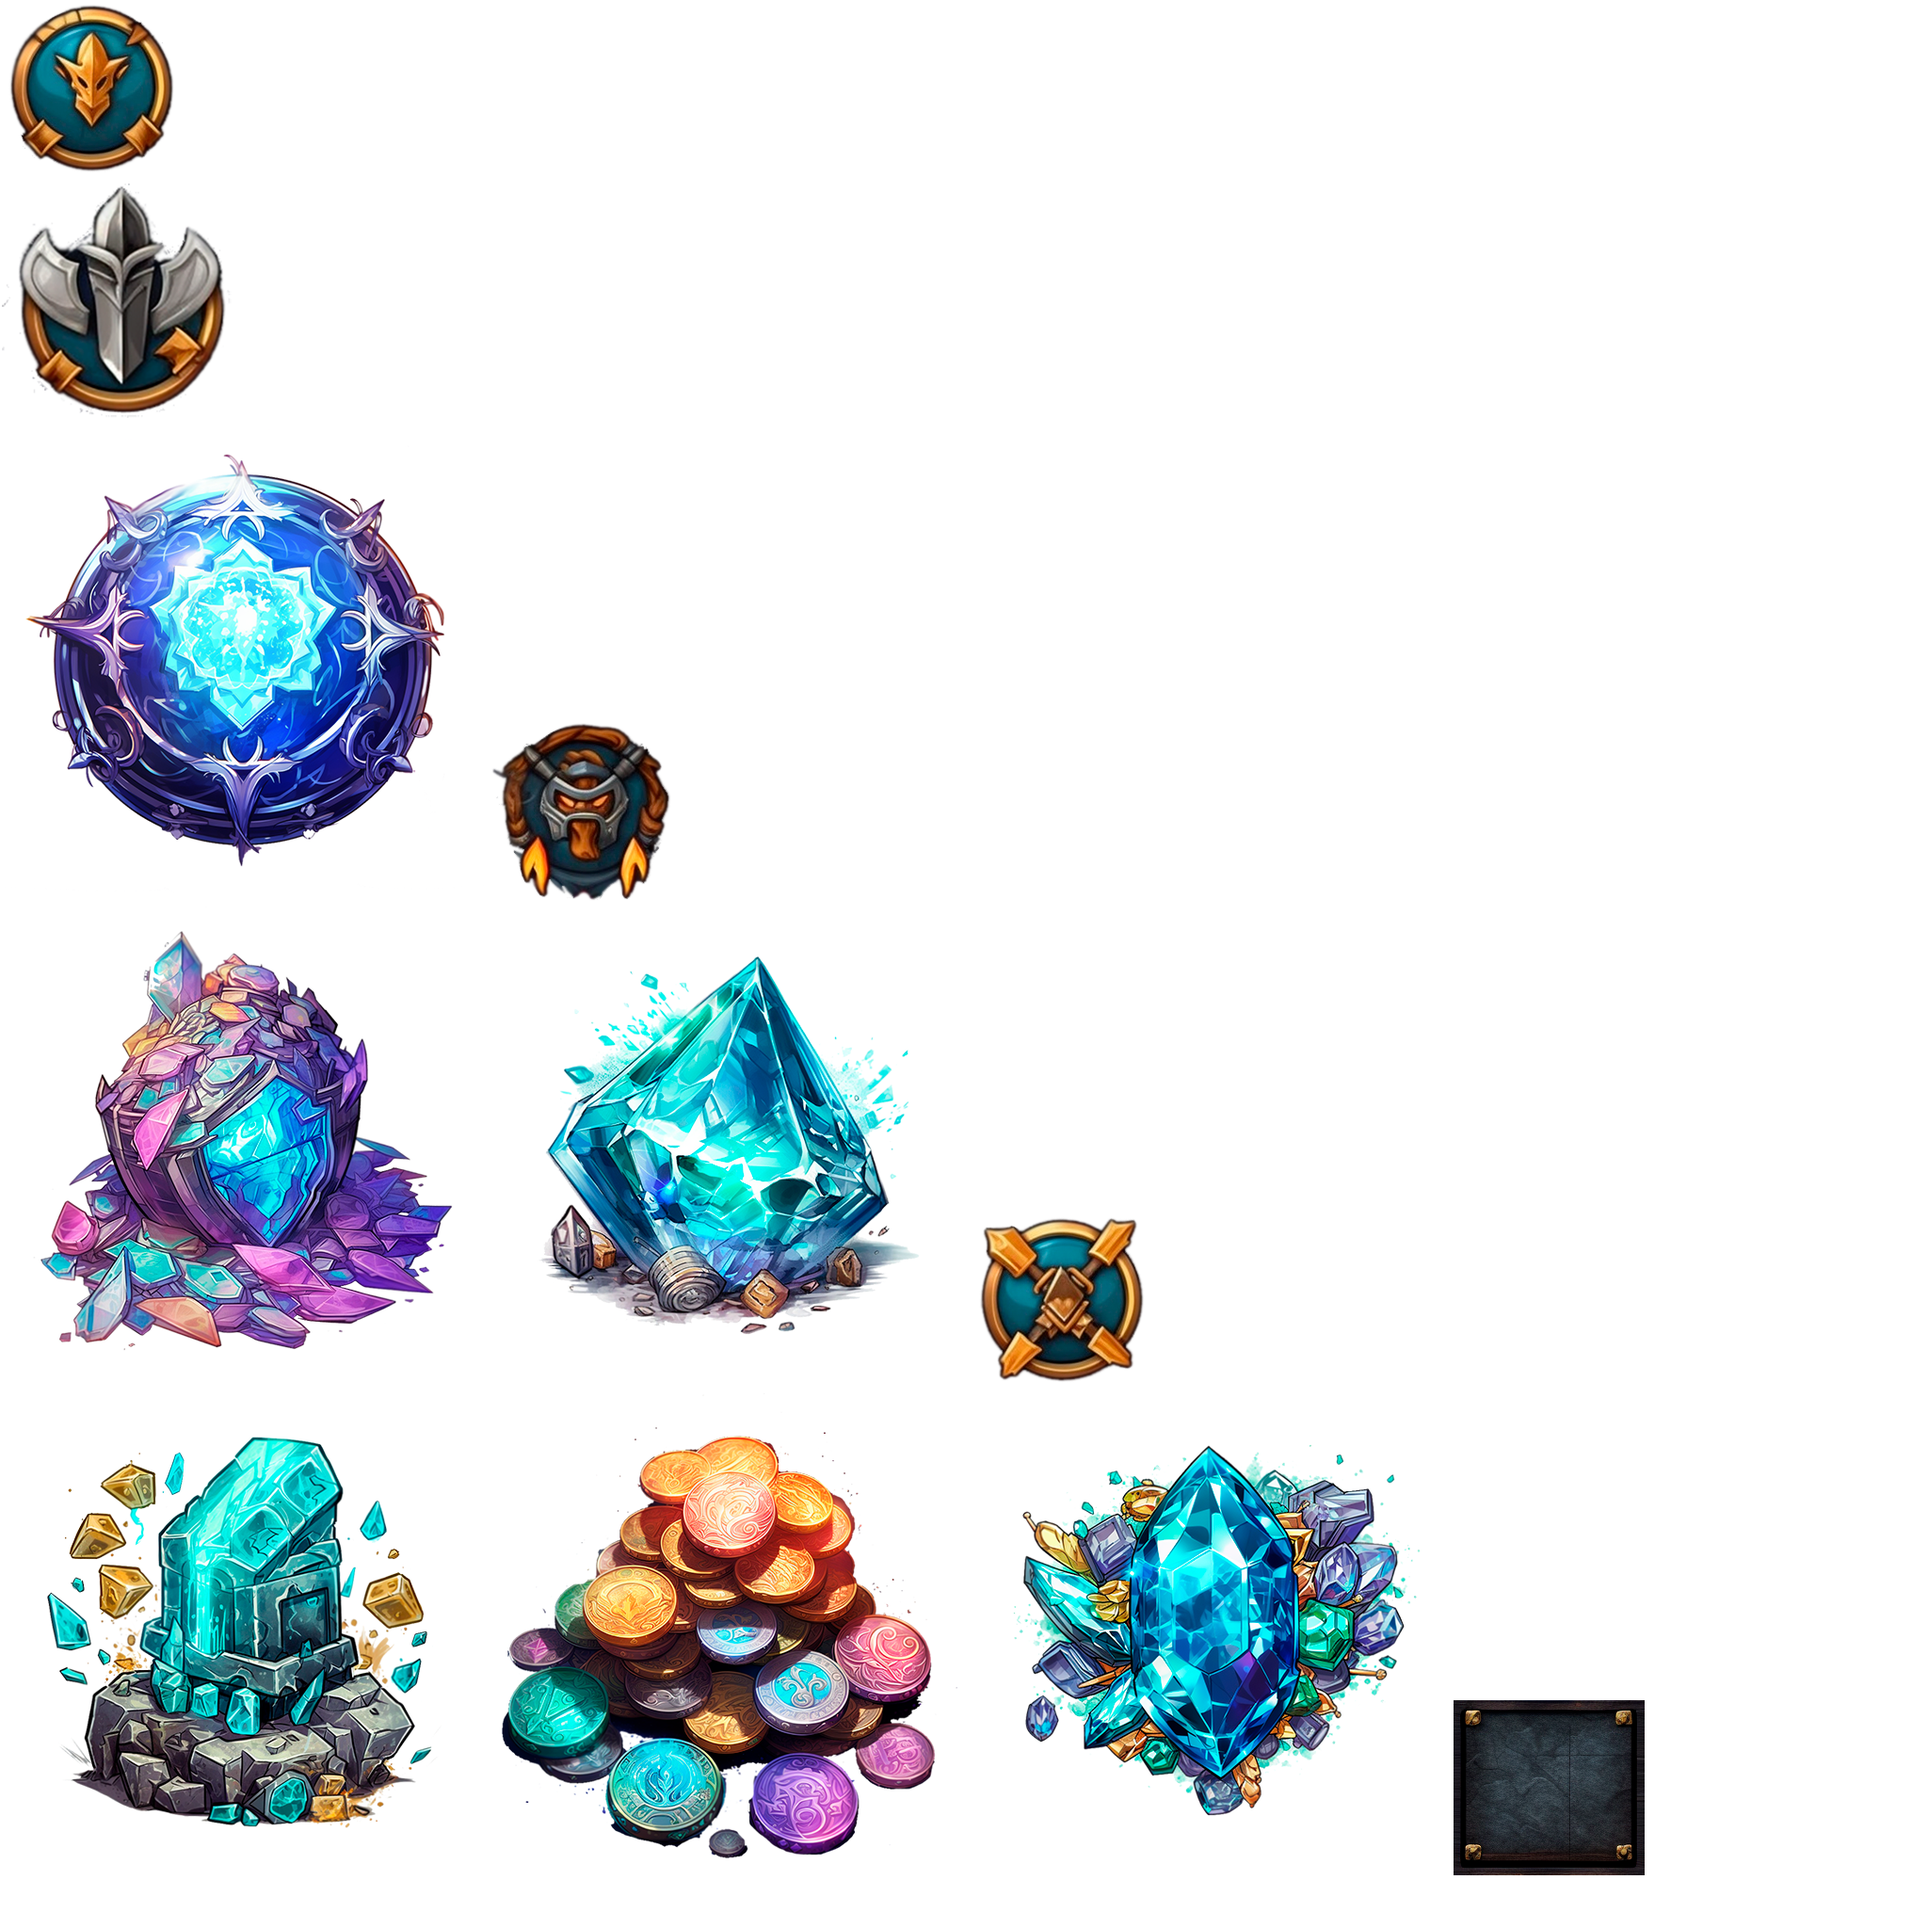
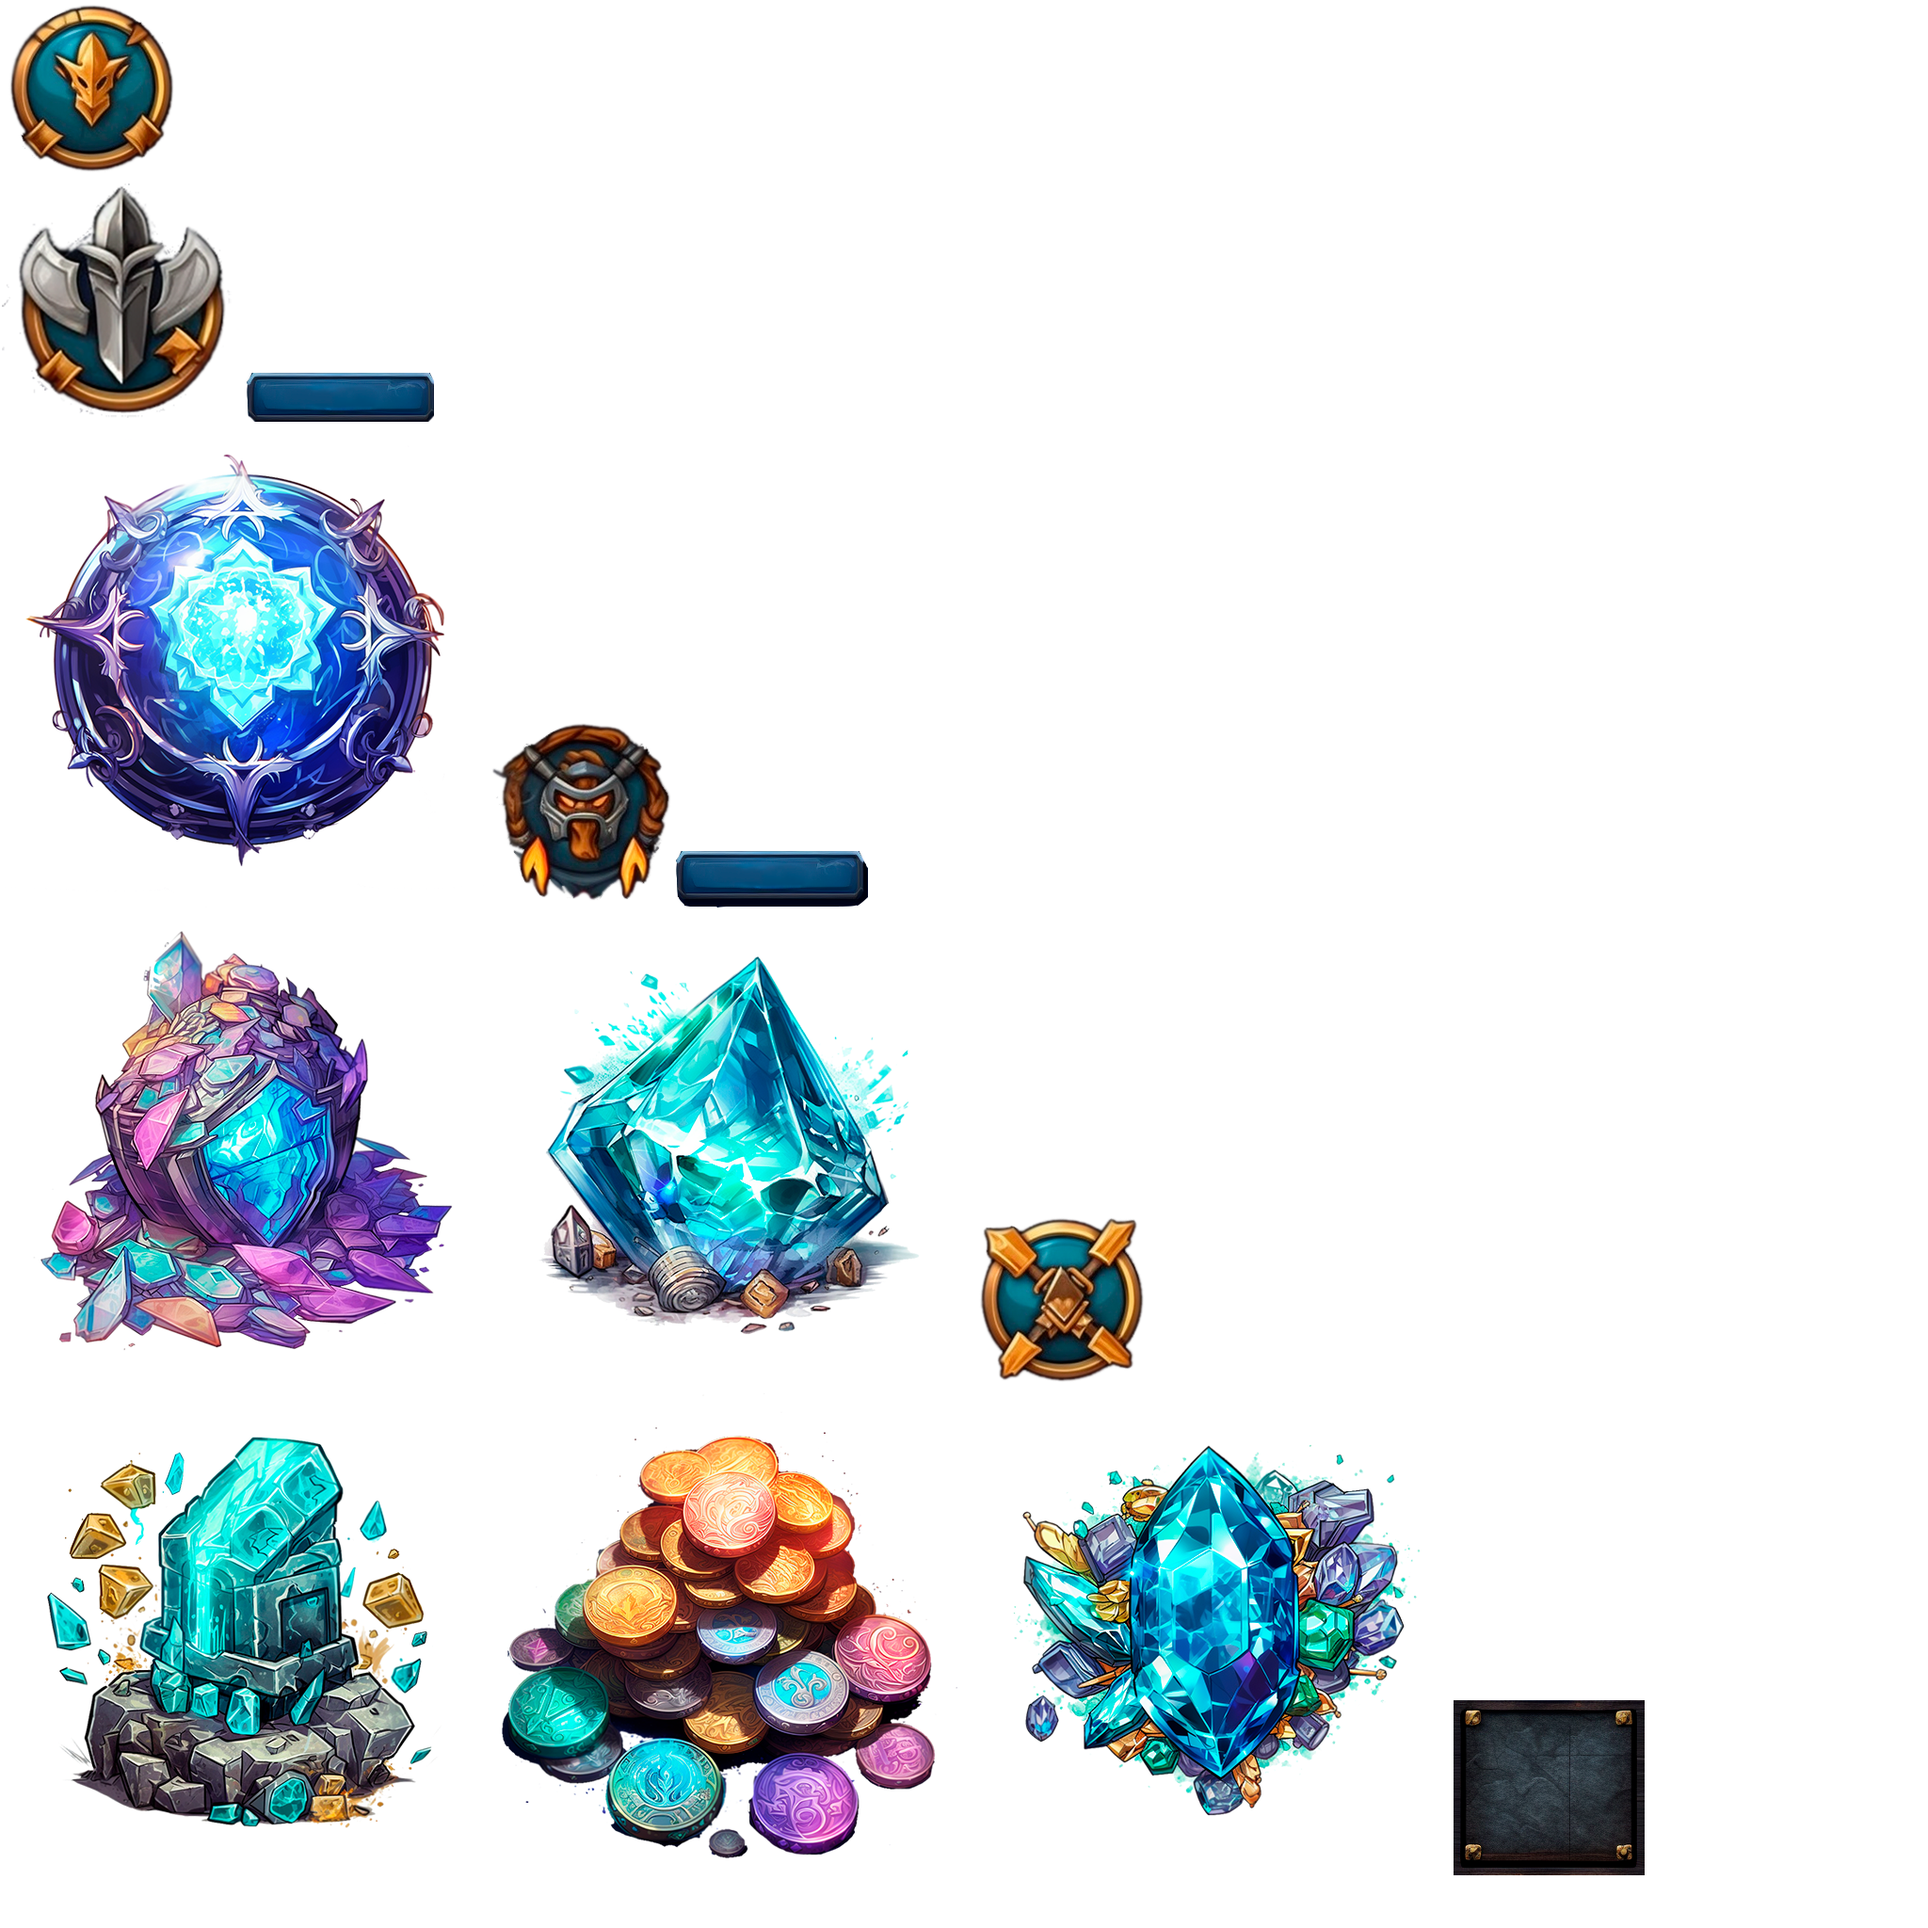
stable stuff (no skins)

Changed region(s): [[0.3438, 0.4375, 0.4688, 0.4688], [0.125, 0.1875, 0.25, 0.2188]]

diff --git a/swipe-client/core/src/main/java/com/pl00t/swipe_client/ux/IconedButton.kt b/swipe-client/core/src/main/java/com/pl00t/swipe_client/ux/IconedButton.kt
@@ -1,11 +1,9 @@
-package com.pl00t.swipe_client.screen.ux
+package com.pl00t.swipe_client.ux
 
-import com.badlogic.gdx.Graphics.DisplayMode
 import com.badlogic.gdx.graphics.g2d.TextureAtlas
 import com.badlogic.gdx.scenes.scene2d.Group
 import com.badlogic.gdx.scenes.scene2d.ui.Image
 import com.badlogic.gdx.utils.Align
-import com.pl00t.swipe_client.ux.Fonts
 
 class IconedButton(
     val w: Float,
@@ -17,9 +15,10 @@ class IconedButton(
     val align: Int = Align.right,
 ) : Group() {
 
-    val background = Image(coreTextureAtlas.findRegion("button_bg"))
+    val background = Image(coreTextureAtlas.createPatch("button_simple"))
     val iconImage = Image(textureAtlas.findRegion(icon))
     val captionText = Fonts.createWhiteCaption(text, h)
+    val padding = h * 0.1f
 
     init {
         background.apply {
@@ -32,10 +31,10 @@ class IconedButton(
             x = if (this@IconedButton.align == Align.left) 0f else w - h
         }
         captionText.apply {
-            width = w - h - h * 0.05f
+            width = w - h - padding
             height = h
             setAlignment(align)
-            x = if (align == Align.left) h * 1.05f else h * 0.05f
+            x = if (align == Align.left) h + padding else 0f
         }
         addActor(background)
         addActor(iconImage)

diff --git a/swipe-client/core/src/main/java/com/pl00t/swipe_client/screen/reward/RewardDialog.kt b/swipe-client/core/src/main/java/com/pl00t/swipe_client/screen/reward/RewardDialog.kt
@@ -6,7 +6,7 @@ import com.badlogic.gdx.scenes.scene2d.actions.Actions
 import com.badlogic.gdx.scenes.scene2d.ui.Image
 import com.badlogic.gdx.scenes.scene2d.ui.Label
 import com.badlogic.gdx.utils.Align
-import com.pl00t.swipe_client.screen.ux.IconedButton
+import com.pl00t.swipe_client.ux.IconedButton
 import com.pl00t.swipe_client.services.profile.CollectedReward
 import com.pl00t.swipe_client.ux.Fonts
 import ktx.actors.alpha
@@ -24,10 +24,11 @@ class RewardDialog(
     val title: Label
     val closeButton: IconedButton
 
-    val contentWidth = w * 0.8f
+    val contentWidth = w * 0.9f
     val contentPadding = (w - contentWidth) / 2f
     val titleHeight = h * 0.1f
     val entryHeight = h * 0.1f
+    val closeButtonHeight = h * 0.08f
 
     init {
         bg = Image(uxAtlas.createPatch("panelBg")).apply {
@@ -42,9 +43,9 @@ class RewardDialog(
             y = h - titleHeight
         }
 
-        closeButton = IconedButton(contentWidth, titleHeight, "Close", "icon_close", coreAtlas, coreAtlas, Align.right).apply {
+        closeButton = IconedButton(contentWidth, closeButtonHeight, "Close", "icon_close", coreAtlas, coreAtlas, Align.right).apply {
             x = contentPadding
-            y = contentPadding
+            y = contentPadding * 2f
         }
 
         addActor(bg)

diff --git a/swipe-client/core/src/main/java/com/pl00t/swipe_client/ux/buttons.kt b/swipe-client/core/src/main/java/com/pl00t/swipe_client/ux/buttons.kt
@@ -1,0 +1,36 @@
+package com.pl00t.swipe_client.ux
+
+import com.badlogic.gdx.assets.AssetManager
+import com.badlogic.gdx.graphics.Color
+import com.badlogic.gdx.graphics.g2d.TextureAtlas
+import com.badlogic.gdx.scenes.scene2d.ui.Label
+import com.badlogic.gdx.scenes.scene2d.ui.Stack
+import com.badlogic.gdx.scenes.scene2d.ui.TextButton
+import com.badlogic.gdx.scenes.scene2d.utils.NinePatchDrawable
+import com.badlogic.gdx.utils.Align
+
+fun createButton(
+    width: Float,
+    height: Float,
+    text: String,
+    uxAtlas: TextureAtlas,
+    amCore: AssetManager
+): TextButton {
+
+    val textButton = TextButton(text, TextButton.TextButtonStyle(
+        NinePatchDrawable(uxAtlas.createPatch("button_simple")),
+        NinePatchDrawable(uxAtlas.createPatch("button_pressed")),
+        NinePatchDrawable(uxAtlas.createPatch("button_simple")),
+        amCore.fntDescription()
+    ).apply {
+        this.fontColor = Color.WHITE
+        this.downFontColor = Colors.RARITY_3
+    }).apply {
+        this.width = width
+        this.height = height
+        this.labelCell.padBottom(height * 0.08f).expandX()
+        this.label.setFontScale(height * 0.016f, height * 0.016f)
+    }
+
+    return textButton
+}

diff --git a/swipe-client/core/src/main/java/com/pl00t/swipe_client/screen/map/LevelDetailsActor.kt b/swipe-client/core/src/main/java/com/pl00t/swipe_client/screen/map/LevelDetailsActor.kt
@@ -7,9 +7,9 @@ import com.badlogic.gdx.scenes.scene2d.ui.Label
 import com.badlogic.gdx.scenes.scene2d.ui.ScrollPane
 import com.badlogic.gdx.utils.Align
 import com.badlogic.gdx.utils.Scaling
-import com.pl00t.swipe_client.screen.ux.IconedButton
 import com.pl00t.swipe_client.services.battle.UnitSkin
 import com.pl00t.swipe_client.ux.Fonts
+import com.pl00t.swipe_client.ux.IconedButton
 import ktx.actors.alpha
 import ktx.actors.onClick
 
@@ -43,7 +43,7 @@ class LevelDetailsActor(
     val locationDescriptionLabel: Label
 
     private val _titleHeight = width * 0.1f
-    private val _bw = width * 0.4f
+    private val _bw = width * 0.5f
     private val _bh = width * 0.12f
 
     var callback: LevelDetailsCallback? = null
@@ -68,7 +68,7 @@ class LevelDetailsActor(
         }
 
         startButton = IconedButton(_bw, _bh, "To Battle!", "button_attack", coreAtlas, uxAtlas).apply {
-            x = width * 0.55f
+            x = width * 0.45f
             y = width * 0.05f
         }
         startButton.onClick { attackAction(locationId) }

diff --git a/swipe-client/core/src/main/java/com/pl00t/swipe_client/screen/map/MonsterDetailActor.kt b/swipe-client/core/src/main/java/com/pl00t/swipe_client/screen/map/MonsterDetailActor.kt
@@ -1,6 +1,5 @@
 package com.pl00t.swipe_client.screen.map
 
-import com.badlogic.gdx.graphics.TextureArray
 import com.badlogic.gdx.graphics.g2d.TextureAtlas
 import com.badlogic.gdx.scenes.scene2d.Group
 import com.badlogic.gdx.scenes.scene2d.actions.Actions
@@ -9,13 +8,12 @@ import com.badlogic.gdx.scenes.scene2d.ui.Label
 import com.badlogic.gdx.scenes.scene2d.ui.ScrollPane
 import com.badlogic.gdx.utils.Align
 import com.badlogic.gdx.utils.Scaling
-import com.pl00t.swipe_client.screen.ux.IconedButton
+import com.pl00t.swipe_client.ux.IconedButton
 import com.pl00t.swipe_client.services.battle.MonsterConfiguration
 import com.pl00t.swipe_client.ux.Fonts
 import com.pl00t.swipe_client.ux.hideToBehindAndRemove
 import ktx.actors.onClick
 import kotlin.math.max
-import kotlin.math.min
 
 private enum class DisplayMode {
     DESCRIPTION,

diff --git a/swipe-client/core/src/main/java/com/pl00t/swipe_client/screen/reward/CurrencyRewardEntryActor.kt b/swipe-client/core/src/main/java/com/pl00t/swipe_client/screen/reward/CurrencyRewardEntryActor.kt
@@ -20,7 +20,7 @@ class CurrencyRewardEntryActor(
     val title: Label
     val amountLabel: Label
 
-    val titleHeight = h * 0.6f
+    val titleHeight = h * 0.55f
     val amountHeight = h - titleHeight
     val padding = h * 0.05f
 
@@ -36,7 +36,7 @@ class CurrencyRewardEntryActor(
         }
         amountLabel = Fonts.createCaptionAccent("x${reward.amount}", amountHeight).apply {
             x = h + padding
-            setAlignment(Align.left)
+            setAlignment(Align.topLeft)
         }
 
         addActor(image)

diff --git a/swipe-client/core/src/main/java/com/pl00t/swipe_client/screen/battle/BattleFinishActor.kt b/swipe-client/core/src/main/java/com/pl00t/swipe_client/screen/battle/BattleFinishActor.kt
@@ -11,7 +11,7 @@ import com.badlogic.gdx.utils.Align
 import com.badlogic.gdx.utils.Scaling
 import com.pl00t.swipe_client.screen.Router
 import com.pl00t.swipe_client.screen.reward.RewardDialog
-import com.pl00t.swipe_client.screen.ux.IconedButton
+import com.pl00t.swipe_client.ux.IconedButton
 import com.pl00t.swipe_client.services.battle.BattleResult
 import com.pl00t.swipe_client.services.profile.ProfileService
 import com.pl00t.swipe_client.services.profile.SwipeAct
